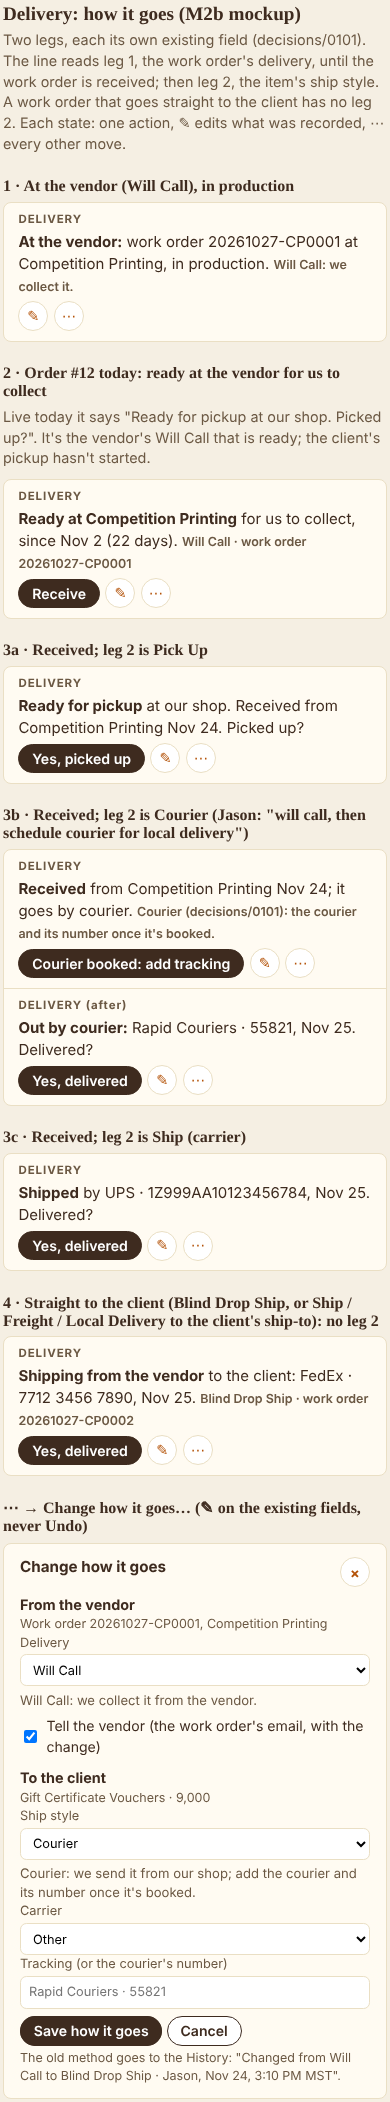
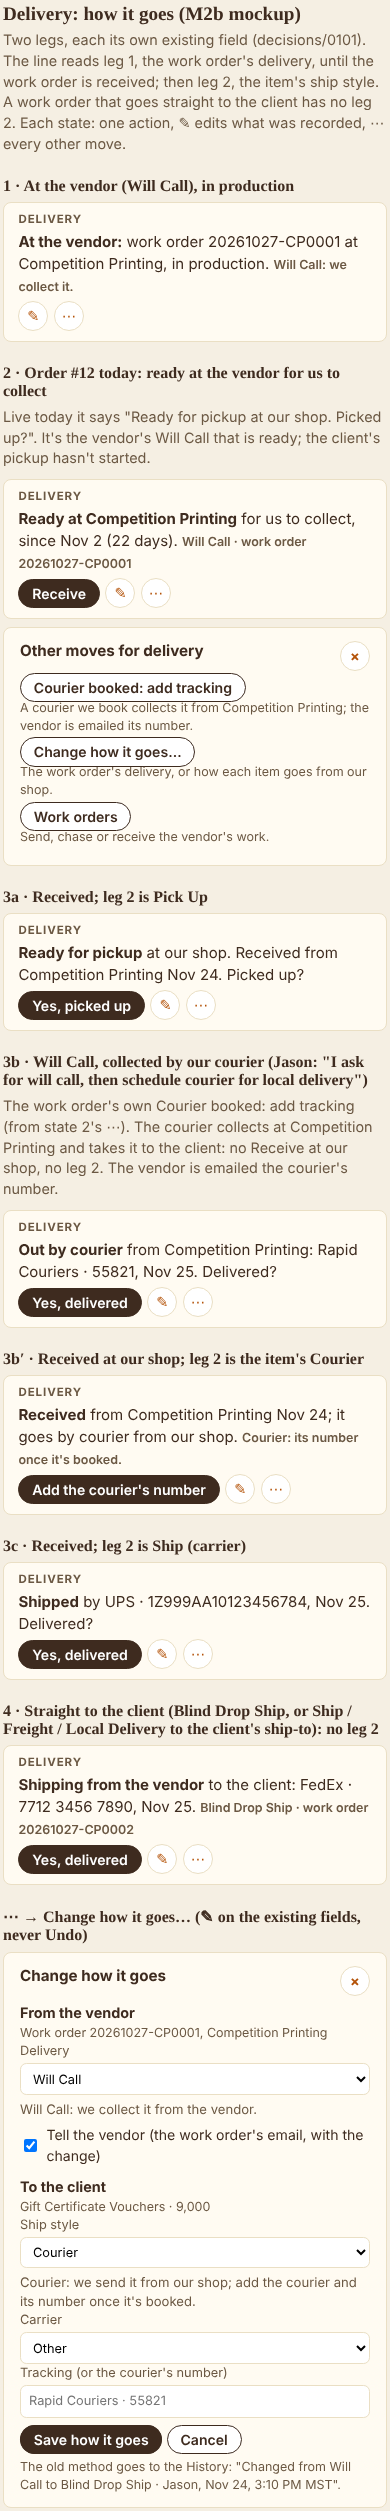
M2b mockup: Courier booked is the work order's (Will Call collected by our courier, no Receive); the item's Courier after Receive
Claude-Session: https://claude.ai/code/session_01CXLi5j2wAgTrKdTwX6kQNY

diff --git a/handoffs/order-m2b/mockup.html b/handoffs/order-m2b/mockup.html
@@ -32,19 +32,26 @@ label{display:block;font-size:.8rem;color:var(--tv-meta)}select,input{display:bl
 <div class="strip"><div class="cs-line"><span class="lab">DELIVERY</span>
   <div><b>Ready at Competition Printing</b> for us to collect, since Nov 2 (22 days). <span class="leg">Will Call · work order 20261027-CP0001</span></div>
   <div class="acts"><span class="b go">Receive</span><span class="ib" title="Edit how it goes">✎</span><span class="ib" title="Other moves">⋯</span></div></div></div>
+<div class="pane" style="max-width:24rem"><h3><span>Other moves for delivery</span><span class="ib">×</span></h3>
+  <p style="margin:.2rem 0"><span class="b">Courier booked: add tracking</span><br><small>A courier we book collects it from Competition Printing; the vendor is emailed its number.</small></p>
+  <p style="margin:.4rem 0"><span class="b">Change how it goes…</span><br><small>The work order's delivery, or how each item goes from our shop.</small></p>
+  <p style="margin:.4rem 0"><span class="b">Work orders</span><br><small>Send, chase or receive the vendor's work.</small></p></div>
 
 <h2>3a · Received; leg 2 is Pick Up</h2>
 <div class="strip"><div class="cs-line"><span class="lab">DELIVERY</span>
   <div><b>Ready for pickup</b> at our shop. Received from Competition Printing Nov 24. Picked up?</div>
   <div class="acts"><span class="b go">Yes, picked up</span><span class="ib">✎</span><span class="ib">⋯</span></div></div></div>
 
-<h2>3b · Received; leg 2 is Courier (Jason: "will call, then schedule courier for local delivery")</h2>
+<h2>3b · Will Call, collected by our courier (Jason: "I ask for will call, then schedule courier for local delivery")</h2>
+<p class="note">The work order's own Courier booked: add tracking (from state 2's ⋯). The courier collects at Competition Printing and takes it to the client: no Receive at our shop, no leg 2. The vendor is emailed the courier's number.</p>
 <div class="strip"><div class="cs-line"><span class="lab">DELIVERY</span>
-  <div><b>Received</b> from Competition Printing Nov 24; it goes by courier. <span class="leg">Courier (decisions/0101): the courier and its number once it's booked.</span></div>
-  <div class="acts"><span class="b go">Courier booked: add tracking</span><span class="ib">✎</span><span class="ib">⋯</span></div></div>
-  <div class="cs-line"><span class="lab">DELIVERY (after)</span>
-  <div><b>Out by courier:</b> Rapid Couriers · 55821, Nov 25. Delivered?</div>
+  <div><b>Out by courier</b> from Competition Printing: Rapid Couriers · 55821, Nov 25. Delivered?</div>
   <div class="acts"><span class="b go">Yes, delivered</span><span class="ib" title="Edit the courier and its number">✎</span><span class="ib">⋯</span></div></div></div>
+
+<h2>3b′ · Received at our shop; leg 2 is the item's Courier</h2>
+<div class="strip"><div class="cs-line"><span class="lab">DELIVERY</span>
+  <div><b>Received</b> from Competition Printing Nov 24; it goes by courier from our shop. <span class="leg">Courier: its number once it's booked.</span></div>
+  <div class="acts"><span class="b go">Add the courier's number</span><span class="ib" title="Edit how it goes">✎</span><span class="ib">⋯</span></div></div></div>
 
 <h2>3c · Received; leg 2 is Ship (carrier)</h2>
 <div class="strip"><div class="cs-line"><span class="lab">DELIVERY</span>
